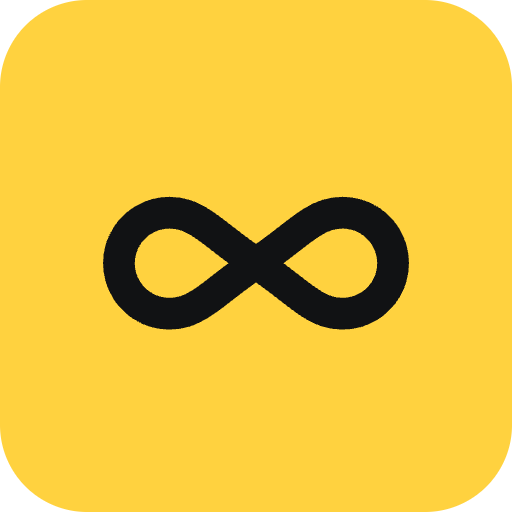
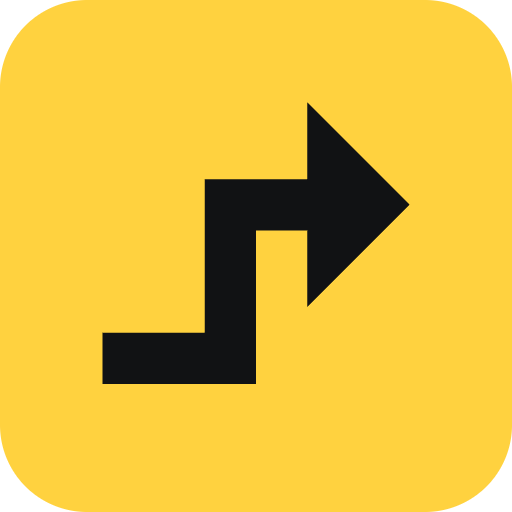
Rename the board to Gate Change with a lane-change mark
SITE_NAME is now "Gate Change", so page titles, og:site_name, the og
image alt, the JSON-LD WebSite and Organization names and the header
wordmark all follow it. The manifest, index.html title, README, VISION,
the MCP server name, the agent install command, the pricing description
and the sign-in and digest emails use the same name. The domain is
unchanged.

The header mark, favicon.svg, favicon.ico, app icons and og.png use a
new glyph: a right arrow that jogs up one lane, drawn as one filled path
on a 16 px grid so it stays crisp in a browser tab.

The home page company counts in "Browse by role and place" now use
--ink-soft instead of --field. Contrast goes from 3.61:1 to 9.08:1 in
dark mode and from 3.9:1 to 7.73:1 in light mode.

Changed region(s): [[0.1875, 0.1875, 0.8125, 0.75]]

diff --git a/apps/web/test/render.test.ts b/apps/web/test/render.test.ts
@@ -156,14 +156,14 @@ describe("job page render", () => {
         expect(page.html).toContain("data-foldkit-app");
         expect(page.html).toMatch(/<h1[^>]*>Director of Engineering<\/h1>/u);
         expect(page.html).toContain(
-          "<title>Director of Engineering at Acme &lt;Robotics&gt; · Engineering leadership jobs</title>"
+          "<title>Director of Engineering at Acme &lt;Robotics&gt; · Gate Change</title>"
         );
         expect(page.html).not.toContain("Refreshed every few hours");
         expect(page.html).toContain(
           `<link rel="canonical" href="${ORIGIN}${GREENHOUSE_PATH}"`
         );
         expect(page.html).toContain(
-          '<meta property="og:title" content="Director of Engineering at Acme &lt;Robotics&gt; · Engineering leadership jobs" />'
+          '<meta property="og:title" content="Director of Engineering at Acme &lt;Robotics&gt; · Gate Change" />'
         );
         expect(page.html).toContain('href="/companies/acme-robotics"');
       })
@@ -273,7 +273,7 @@ describe("job page render", () => {
       Effect.map(renderJob(greenhouse, allowedOnly), ({ html }) => {
         expect(html).toContain('<meta property="og:type" content="website" />');
         expect(html).toContain(
-          '<meta property="og:site_name" content="Engineering leadership jobs" />'
+          '<meta property="og:site_name" content="Gate Change" />'
         );
         expect(html).toContain(
           `<meta property="og:image" content="${ORIGIN}/og.png" />`
@@ -305,7 +305,7 @@ describe("job page render", () => {
       ({ html }) => {
         expect(html).not.toMatch(/<[^>]*\sonload="/u);
         expect(html).toContain(
-          '<meta property="og:title" content="Director of Engineering at Acme&quot; onload=&quot;alert(1) · Engineering leadership jobs" />'
+          '<meta property="og:title" content="Director of Engineering at Acme&quot; onload=&quot;alert(1) · Gate Change" />'
         );
       }
     )
@@ -342,7 +342,7 @@ describe("job page render", () => {
       ),
       ({ html }) => {
         expect(html).toContain(
-          "<title>Lead $` ops at Cash $&amp; Carry $' · Engineering leadership jobs</title>"
+          "<title>Lead $` ops at Cash $&amp; Carry $' · Gate Change</title>"
         );
         expect(html).toContain(
           '<meta name="description" content="Director role at Cash $&amp; Carry $\', Remote, Canada" />'
@@ -481,9 +481,7 @@ describe("public landing hydration", () => {
     () =>
       Effect.map(render("/pricing", Preload.Nothing()), (page) => {
         expect(page.status).toBe(200);
-        expect(page.html).toContain(
-          "<title>Pro plans · Engineering leadership jobs</title>"
-        );
+        expect(page.html).toContain("<title>Pro plans · Gate Change</title>");
         expect(page.html).toContain("Pro for engineering leaders");
         expect(page.html).toContain(
           "Every engineering leadership listing stays free"
@@ -699,7 +697,7 @@ describe("listing page render", () => {
       ({ html, status }) => {
         expect(status).toBe(200);
         expect(html).toContain(
-          "<title>Engineering leadership roles at Acme &lt;Robotics&gt; · Engineering leadership jobs</title>"
+          "<title>Engineering leadership roles at Acme &lt;Robotics&gt; · Gate Change</title>"
         );
         expect(html).toContain(
           `<link rel="canonical" href="${ORIGIN}/companies/acme-robotics"`
@@ -727,7 +725,7 @@ describe("listing page render", () => {
       ({ html, status }) => {
         expect(status).toBe(200);
         expect(html).toContain(
-          "<title>Director roles remote in Canada · Engineering leadership jobs</title>"
+          "<title>Director roles remote in Canada · Gate Change</title>"
         );
         expect(html).toContain(
           `<link rel="canonical" href="${ORIGIN}/roles/director/remote-canada"`
@@ -1100,7 +1098,7 @@ describe("home page render", () => {
         expect(html.match(/<h1[\s>]/gu)).toHaveLength(1);
         expect(html).toMatch(/<h1[^>]*>Your next move is on the board.<\/h1>/u);
         expect(html).toContain(
-          `claude mcp add --transport http jobs ${ORIGIN}/mcp`
+          `claude mcp add --transport http gate-change ${ORIGIN}/mcp`
         );
         expect(html).toContain(
           'href="https://github.com/rowlandekemezie/jobs"'

diff --git a/apps/web/src/features/header/view.ts b/apps/web/src/features/header/view.ts
@@ -21,22 +21,15 @@ const navLink = (h: H, href: string, isCurrent: boolean, label: string) =>
     [label]
   );
 
-const loopMark = (h: H): Html =>
+const gateChangeMark = (h: H): Html =>
   h.span(
     [h.Class("brand-mark"), h.AriaHidden(true)],
     [
       h.svg(
-        [h.ViewBox("0 0 22 22"), h.Width("22"), h.Height("22")],
+        [h.ViewBox("2 2 12 12"), h.Width("20"), h.Height("20")],
         [
           h.path(
-            [
-              h.D(
-                "M5 8a3.5 3.5 0 1 0 0 7c2 0 3-1.5 6-3.5s4-3.5 6-3.5a3.5 3.5 0 1 1 0 7c-2 0-3-1.5-6-3.5S7 8 5 8Z"
-              ),
-              h.Fill("none"),
-              h.Stroke("currentColor"),
-              h.StrokeWidth("2.2"),
-            ],
+            [h.D("M2 11h4V5h4V2l4 4-4 4V7H8v6H2Z"), h.Fill("currentColor")],
             []
           ),
         ]
@@ -85,7 +78,7 @@ export const siteHeader = (model: ModelValue, h: H): Html =>
     [
       h.a(
         [h.Class("brand"), h.Href(boardUrl(model.filters))],
-        [loopMark(h), h.span([h.Class("brand-name")], [SITE_NAME])]
+        [gateChangeMark(h), h.span([h.Class("brand-name")], [SITE_NAME])]
       ),
       h.nav([h.Class("site-nav"), h.AriaLabel("Site")], navItems(model, h)),
       h.keyed("details")(

diff --git a/apps/web/test/worker.test.ts b/apps/web/test/worker.test.ts
@@ -219,9 +219,7 @@ describe("public landing pages", () => {
       const page = await site.get(`${ORIGIN}${path}`);
 
       expect(page.status).toBe(200);
-      expect(page.html).toContain(
-        `<title>${title} · Engineering leadership jobs</title>`
-      );
+      expect(page.html).toContain(`<title>${title} · Gate Change</title>`);
       expect(page.html).toContain(
         `<link rel="canonical" href="${ORIGIN}${path}"`
       );
@@ -376,7 +374,7 @@ describe("unknown paths", () => {
 
       expect(page.status).toBe(404);
       expect(page.html).toContain(
-        "<title>Page not found · Engineering leadership jobs</title>"
+        "<title>Page not found · Gate Change</title>"
       );
       expect(page.html).toContain('<meta name="robots" content="noindex"');
       expect(page.headers.get("x-robots-tag")).toBe("noindex");

diff --git a/packages/accounts/src/magic-link-email.ts b/packages/accounts/src/magic-link-email.ts
@@ -37,13 +37,13 @@ export const magicLinkEmail = (
   return {
     from,
     html: [
-      "<p>Use this link to sign in to the engineering leadership job board:</p>",
+      "<p>Use this link to sign in to Gate Change, the engineering leadership job board:</p>",
       `<p><a href="${escapeHtml(url)}">Sign in</a></p>`,
       `<p>The link works once and expires in ${MAGIC_LINK_TTL_MINUTES} minutes. If you did not ask for it, ignore this email.</p>`,
     ].join(""),
-    subject: "Your sign-in link",
+    subject: "Your Gate Change sign-in link",
     text: [
-      "Use this link to sign in to the engineering leadership job board:",
+      "Use this link to sign in to Gate Change, the engineering leadership job board:",
       "",
       url,
       "",

diff --git a/apps/web/test/agent-tokens.test.ts b/apps/web/test/agent-tokens.test.ts
@@ -294,7 +294,7 @@ describe("agent tokens", () => {
       Effect.map(renderAccount(signedIn, pro, issued), (text) => {
         expect(text).toContain(`It will not be shown again. ${SECRET} `);
         expect(text).toContain(
-          `claude mcp add --transport http jobs ${ORIGIN}/mcp --header "Authorization: Bearer ${SECRET}"`
+          `claude mcp add --transport http gate-change ${ORIGIN}/mcp --header "Authorization: Bearer ${SECRET}"`
         );
         expect(text).toContain("Build server, created October 18, 2026");
         expect(text).toContain("Laptop, created October 1, 2026");

diff --git a/packages/digest-mailer/src/digest-email.ts b/packages/digest-mailer/src/digest-email.ts
@@ -40,7 +40,7 @@ export const unsubscribeLink = (siteOrigin: string, token: string) => {
 const reasonOf = (digest: Digest) =>
   digest.cadence === "Instant"
     ? "You get this within 20 minutes of a new match because you turned on instant alerts for your saved searches."
-    : "You get this weekly because you saved a search on the engineering leadership job board.";
+    : "You get this weekly because you saved a search on Gate Change.";
 
 const instantSubjectOf = (digest: Digest) => {
   const first = digest.jobs[0]?.title ?? "an engineering leadership role";

diff --git a/apps/web/src/server/render.ts b/apps/web/src/server/render.ts
@@ -127,7 +127,7 @@ const publicMeta = (route: RouteValue): PageMeta => {
   if (Schema.is(Route.Pricing)(route)) {
     return {
       description:
-        "Every engineering leadership listing stays free. Compare Jobs Pro plans for faster alerts, salary filters and company intel. Prices in US dollars.",
+        "Every engineering leadership listing stays free. Compare Gate Change Pro plans for faster alerts, salary filters and company intel. Prices in US dollars.",
       jsonLd: Option.none(),
       status: 200,
     };

diff --git a/apps/web/src/features/agent-tokens/view.ts b/apps/web/src/features/agent-tokens/view.ts
@@ -37,7 +37,7 @@ const LABEL_ID = "agent-token-label";
 export const mcpUrlOf = (origin: string) => `${origin}${MCP_PATH}`;
 
 export const addServerCommandOf = (origin: string) =>
-  `claude mcp add --transport http jobs ${mcpUrlOf(origin)}`;
+  `claude mcp add --transport http gate-change ${mcpUrlOf(origin)}`;
 
 export const connectCommandOf = (origin: string, secret: string) =>
   `${addServerCommandOf(origin)} --header "Authorization: Bearer ${secret}"`;

diff --git a/packages/core/src/site.ts b/packages/core/src/site.ts
@@ -8,7 +8,7 @@ export const SITE_ZONE = "rowlandekemezie.com";
 
 export const SITE_ORIGIN = `https://${SITE_HOSTNAME}`;
 
-export const SITE_NAME = "Engineering leadership jobs";
+export const SITE_NAME = "Gate Change";
 
 export const SOURCE_REPOSITORY_URL = "https://github.com/rowlandekemezie/jobs";
 

diff --git a/apps/api/src/mcp.ts b/apps/api/src/mcp.ts
@@ -33,7 +33,7 @@ import {
   withStreamableHttpCompatibility,
 } from "./mcp-streamable-http.js";
 
-export const MCP_SERVER_NAME = "jobs-rowlandekemezie";
+export const MCP_SERVER_NAME = "gate-change";
 
 export const MCP_SERVER_VERSION = "1.0.0";
 

diff --git a/apps/web/index.html b/apps/web/index.html
@@ -38,7 +38,7 @@
       type="font/woff2"
       crossorigin
     />
-    <title>Engineering leadership jobs</title>
+    <title>Gate Change</title>
   </head>
   <body>
     <div id="root"></div>

diff --git a/apps/web/src/styles.css b/apps/web/src/styles.css
@@ -898,7 +898,7 @@ a {
 }
 
 .browse-count {
-  color: var(--field);
+  color: var(--ink-soft);
   font-family: var(--mono);
   font-size: 0.75rem;
 }
